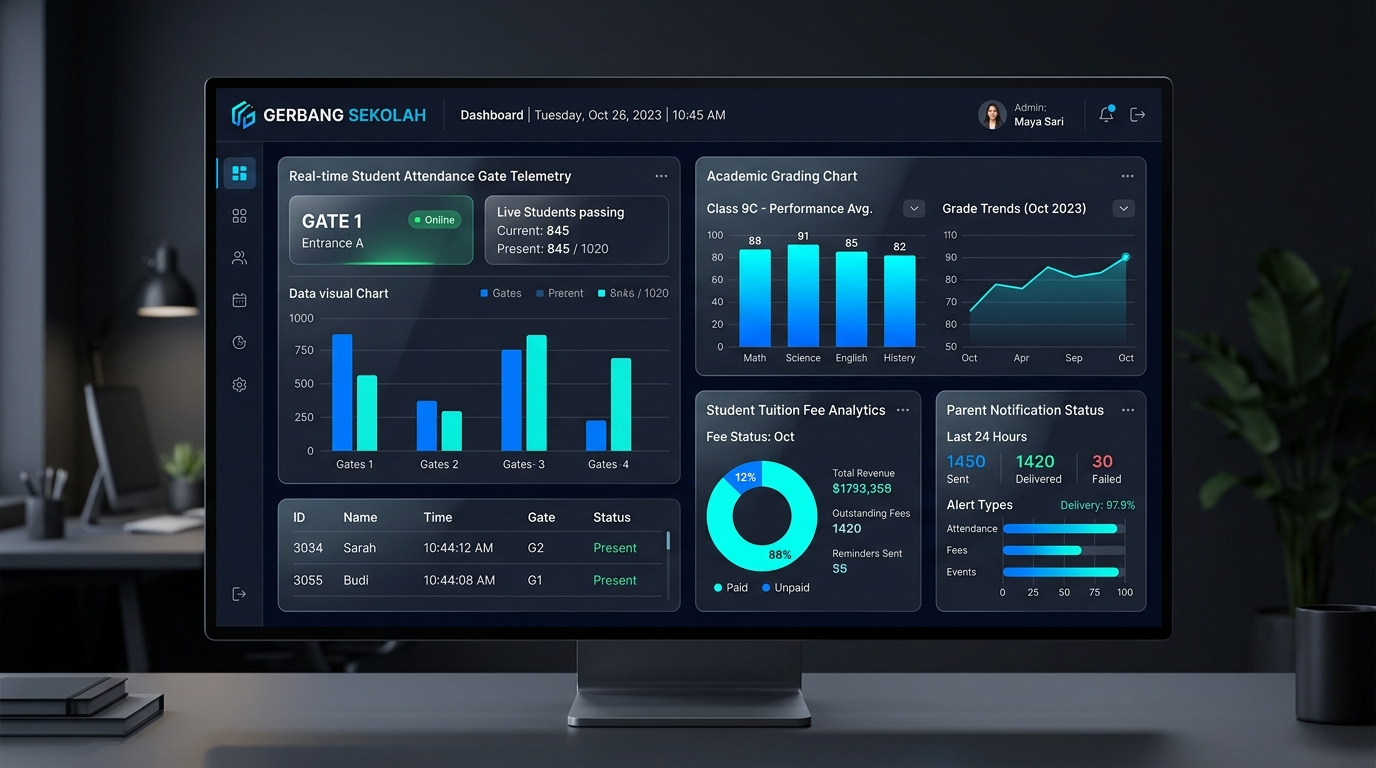
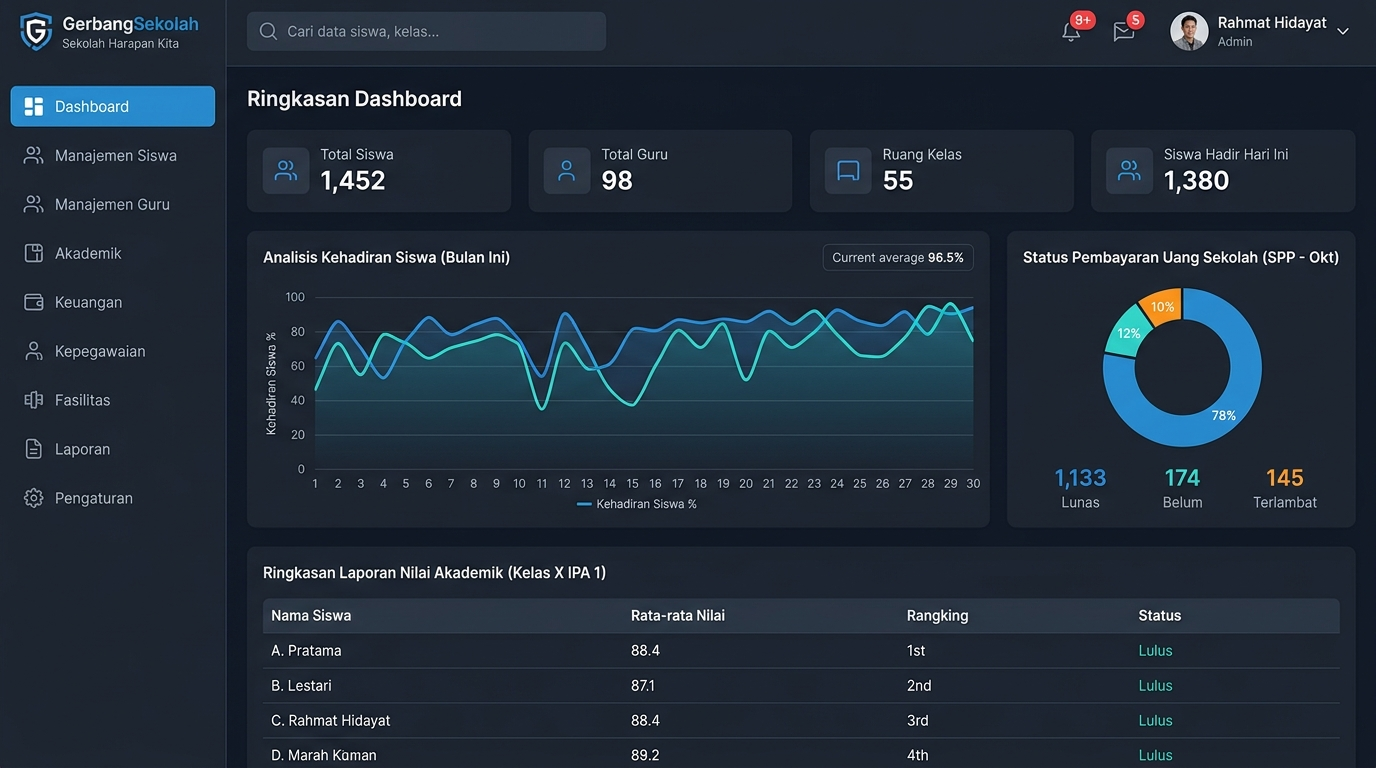
fix(portfolio): replace with crisp 2D GerbangSekolah UI mockup and embed live school-app.tehnonusa.com frame

diff --git a/src/components/sections/portfolio/portfolio-section.tsx b/src/components/sections/portfolio/portfolio-section.tsx
@@ -11,6 +11,10 @@ import {
   ShieldCheck,
   CheckCircle2,
   ArrowRight,
+  ArrowUpRight,
+  ExternalLink,
+  Lock,
+  Globe,
   QrCode,
   BookOpen,
   CreditCard,
@@ -270,45 +274,101 @@ export function PortfolioSection() {
                   ))}
                 </div>
 
-                <DrawOutlineButton
-                  onClick={scrollToContact}
-                  className="self-start sm:self-auto px-5 py-2.5 text-xs font-sans font-semibold shrink-0"
-                >
-                  <span>{t("cta_discuss")}</span>
-                  <ArrowRight className="w-3.5 h-3.5 transform group-hover:translate-x-1 transition-transform" />
-                </DrawOutlineButton>
+                <div className="flex items-center gap-2.5 shrink-0">
+                  <a
+                    href="https://school-app.tehnonusa.com/"
+                    target="_blank"
+                    rel="noopener noreferrer"
+                    className="inline-flex items-center gap-1.5 px-4 py-2 rounded-xl bg-primary hover:bg-primary-dark text-white text-xs font-sans font-semibold transition-colors shadow-sm"
+                  >
+                    <span>Kunjungi Aplikasi</span>
+                    <ArrowUpRight className="w-3.5 h-3.5" />
+                  </a>
+
+                  <DrawOutlineButton
+                    onClick={scrollToContact}
+                    className="self-start sm:self-auto px-4 py-2 text-xs font-sans font-semibold shrink-0"
+                  >
+                    <span>{t("cta_discuss")}</span>
+                    <ArrowRight className="w-3.5 h-3.5 transform group-hover:translate-x-1 transition-transform" />
+                  </DrawOutlineButton>
+                </div>
               </div>
             </div>
 
-            {/* Right Column: Visual Mockup Showcase (5 cols) */}
-            <div className="lg:col-span-5 relative bg-slate-950 min-h-[350px] lg:min-h-full overflow-hidden border-t lg:border-t-0 lg:border-l border-slate-200/90 dark:border-slate-800 flex items-center justify-center p-6 sm:p-8 group">
-              <div className="relative w-full h-[340px] lg:h-full min-h-[320px] rounded-2xl overflow-hidden border border-white/10 shadow-2xl">
-                <Image
-                  src="/images/gerbang-sekolah.jpg"
-                  alt="GerbangSekolah - Dashboard & Telemetri Aplikasi Sekolah"
-                  fill
-                  className="object-cover object-center group-hover:scale-105 transition-transform duration-700 ease-out"
-                  sizes="(max-width: 1024px) 100vw, 480px"
-                  priority
-                />
-                <div className="absolute inset-0 bg-gradient-to-t from-slate-950/80 via-transparent to-transparent pointer-events-none" />
-
-                {/* Live Status Overlay Tag */}
-                <div className="absolute top-4 left-4 z-10 flex items-center gap-2 px-3 py-1.5 rounded-full bg-slate-950/80 backdrop-blur-md border border-white/20 text-white font-mono text-[11px]">
-                  <span className="w-2 h-2 rounded-full bg-emerald-400 animate-pulse" />
-                  <span>FLAGSHIP EDUTECH SOLUTION</span>
-                </div>
-
-                {/* Bottom Overlay Info Tag */}
-                <div className="absolute bottom-4 left-4 right-4 z-10 p-3 rounded-xl bg-slate-900/90 backdrop-blur-md border border-white/10 text-white flex items-center justify-between text-xs">
-                  <div>
-                    <span className="font-heading font-bold block">GerbangSekolah Platform</span>
-                    <span className="font-mono text-[10px] text-slate-400">By PT Tehnonusa Prima Solusi</span>
+            {/* Right Column: Visual Browser Window Mockup Showcase (5 cols) */}
+            <div className="lg:col-span-5 relative bg-slate-950 min-h-[380px] lg:min-h-full overflow-hidden border-t lg:border-t-0 lg:border-l border-slate-200/90 dark:border-slate-800 flex flex-col justify-between p-5 sm:p-7">
+              {/* Browser Window Chrome Frame */}
+              <div className="rounded-2xl border border-white/10 bg-slate-900/90 shadow-2xl overflow-hidden flex flex-col my-auto">
+                {/* Browser Title Bar / Address Bar */}
+                <div className="px-4 py-3 bg-slate-900 border-b border-white/10 flex items-center justify-between gap-3">
+                  {/* Traffic Light Dots */}
+                  <div className="flex items-center gap-1.5 shrink-0">
+                    <span className="w-2.5 h-2.5 rounded-full bg-rose-500/80 inline-block" />
+                    <span className="w-2.5 h-2.5 rounded-full bg-amber-500/80 inline-block" />
+                    <span className="w-2.5 h-2.5 rounded-full bg-emerald-500/80 inline-block" />
                   </div>
-                  <span className="font-mono text-[10px] text-emerald-400 font-bold px-2 py-0.5 rounded bg-emerald-500/20 border border-emerald-500/30">
-                    Live System
-                  </span>
+
+                  {/* URL Address Bar Pill */}
+                  <a
+                    href="https://school-app.tehnonusa.com/"
+                    target="_blank"
+                    rel="noopener noreferrer"
+                    className="flex-1 max-w-xs mx-auto px-3 py-1 rounded-md bg-slate-950/80 border border-white/10 text-[11px] font-mono text-slate-300 hover:text-white flex items-center justify-center gap-1.5 group transition-colors"
+                  >
+                    <Lock className="w-3 h-3 text-emerald-400 shrink-0" />
+                    <span className="truncate">school-app.tehnonusa.com</span>
+                    <ExternalLink className="w-3 h-3 text-slate-400 group-hover:text-primary transition-colors shrink-0" />
+                  </a>
+
+                  {/* Production Live Status Tag */}
+                  <div className="hidden sm:flex items-center gap-1.5 shrink-0 font-mono text-[10px] text-emerald-400">
+                    <span className="w-2 h-2 rounded-full bg-emerald-400 animate-pulse" />
+                    <span>Live</span>
+                  </div>
                 </div>
+
+                {/* Browser Screen Body: Clean 16:9 UI Screenshot */}
+                <a
+                  href="https://school-app.tehnonusa.com/"
+                  target="_blank"
+                  rel="noopener noreferrer"
+                  className="relative block w-full aspect-[16/10] sm:aspect-[16/9] overflow-hidden group/screen cursor-pointer"
+                  title="Klik untuk membuka demo live school-app.tehnonusa.com"
+                >
+                  <Image
+                    src="/images/gerbang-sekolah.jpg"
+                    alt="GerbangSekolah - Dashboard Sistem Manajemen Sekolah"
+                    fill
+                    className="object-cover object-top group-hover/screen:scale-102 transition-transform duration-500 ease-out"
+                    sizes="(max-width: 1024px) 100vw, 520px"
+                    priority
+                  />
+                  {/* Subtle hover overlay */}
+                  <div className="absolute inset-0 bg-primary/10 opacity-0 group-hover/screen:opacity-100 transition-opacity duration-300 flex items-center justify-center pointer-events-none">
+                    <span className="px-3.5 py-1.5 rounded-full bg-slate-950/90 text-white font-sans text-xs font-semibold border border-white/20 shadow-lg flex items-center gap-1.5">
+                      <span>Buka Aplikasi</span>
+                      <ExternalLink className="w-3.5 h-3.5 text-primary" />
+                    </span>
+                  </div>
+                </a>
+              </div>
+
+              {/* Bottom Quick Direct Access Footer */}
+              <div className="pt-4 flex items-center justify-between text-xs font-mono text-slate-400">
+                <span className="flex items-center gap-1.5">
+                  <Globe className="w-3.5 h-3.5 text-primary" />
+                  <span>school-app.tehnonusa.com</span>
+                </span>
+                <a
+                  href="https://school-app.tehnonusa.com/"
+                  target="_blank"
+                  rel="noopener noreferrer"
+                  className="text-primary hover:text-primary-light font-semibold flex items-center gap-1 transition-colors"
+                >
+                  <span>Buka Live</span>
+                  <ArrowUpRight className="w-3.5 h-3.5" />
+                </a>
               </div>
             </div>
           </div>
